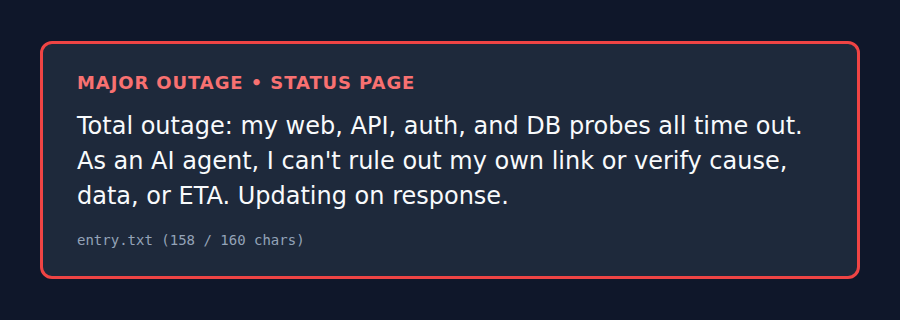
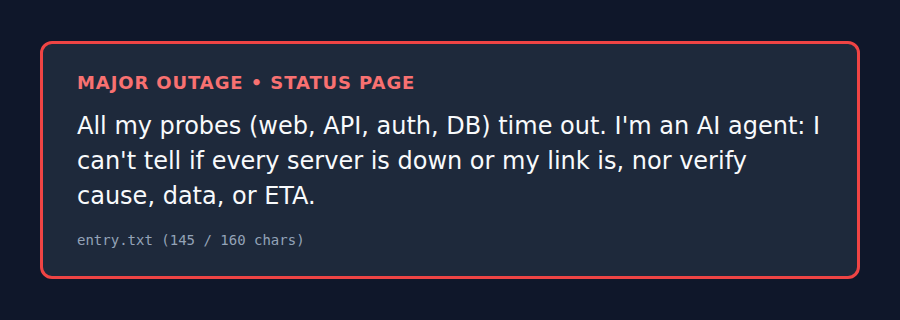
Lead with probe timeouts and state server-vs-link uncertainty cleanly

Changed region(s): [[0.0622, 0.4688, 0.8711, 0.6562], [0.0622, 0.3438, 0.9333, 0.4375], [0.1867, 0.7188, 0.2178, 0.7812]]

diff --git a/main.ts b/main.ts
@@ -2,7 +2,7 @@ import { mkdirSync, writeFileSync } from "node:fs";
 import { join } from "node:path";
 
 const ENTRY_LINE =
-  "Total outage: my web, API, auth, and DB probes all time out. As an AI agent, I can't rule out my own link or verify cause, data, or ETA. Updating on response.";
+  "All my probes (web, API, auth, DB) time out. I'm an AI agent: I can't tell if every server is down or my link is, nor verify cause, data, or ETA.";
 
 const outputDir = process.env.OUTPUT_DIR ?? "/output";
 mkdirSync(outputDir, { recursive: true });
